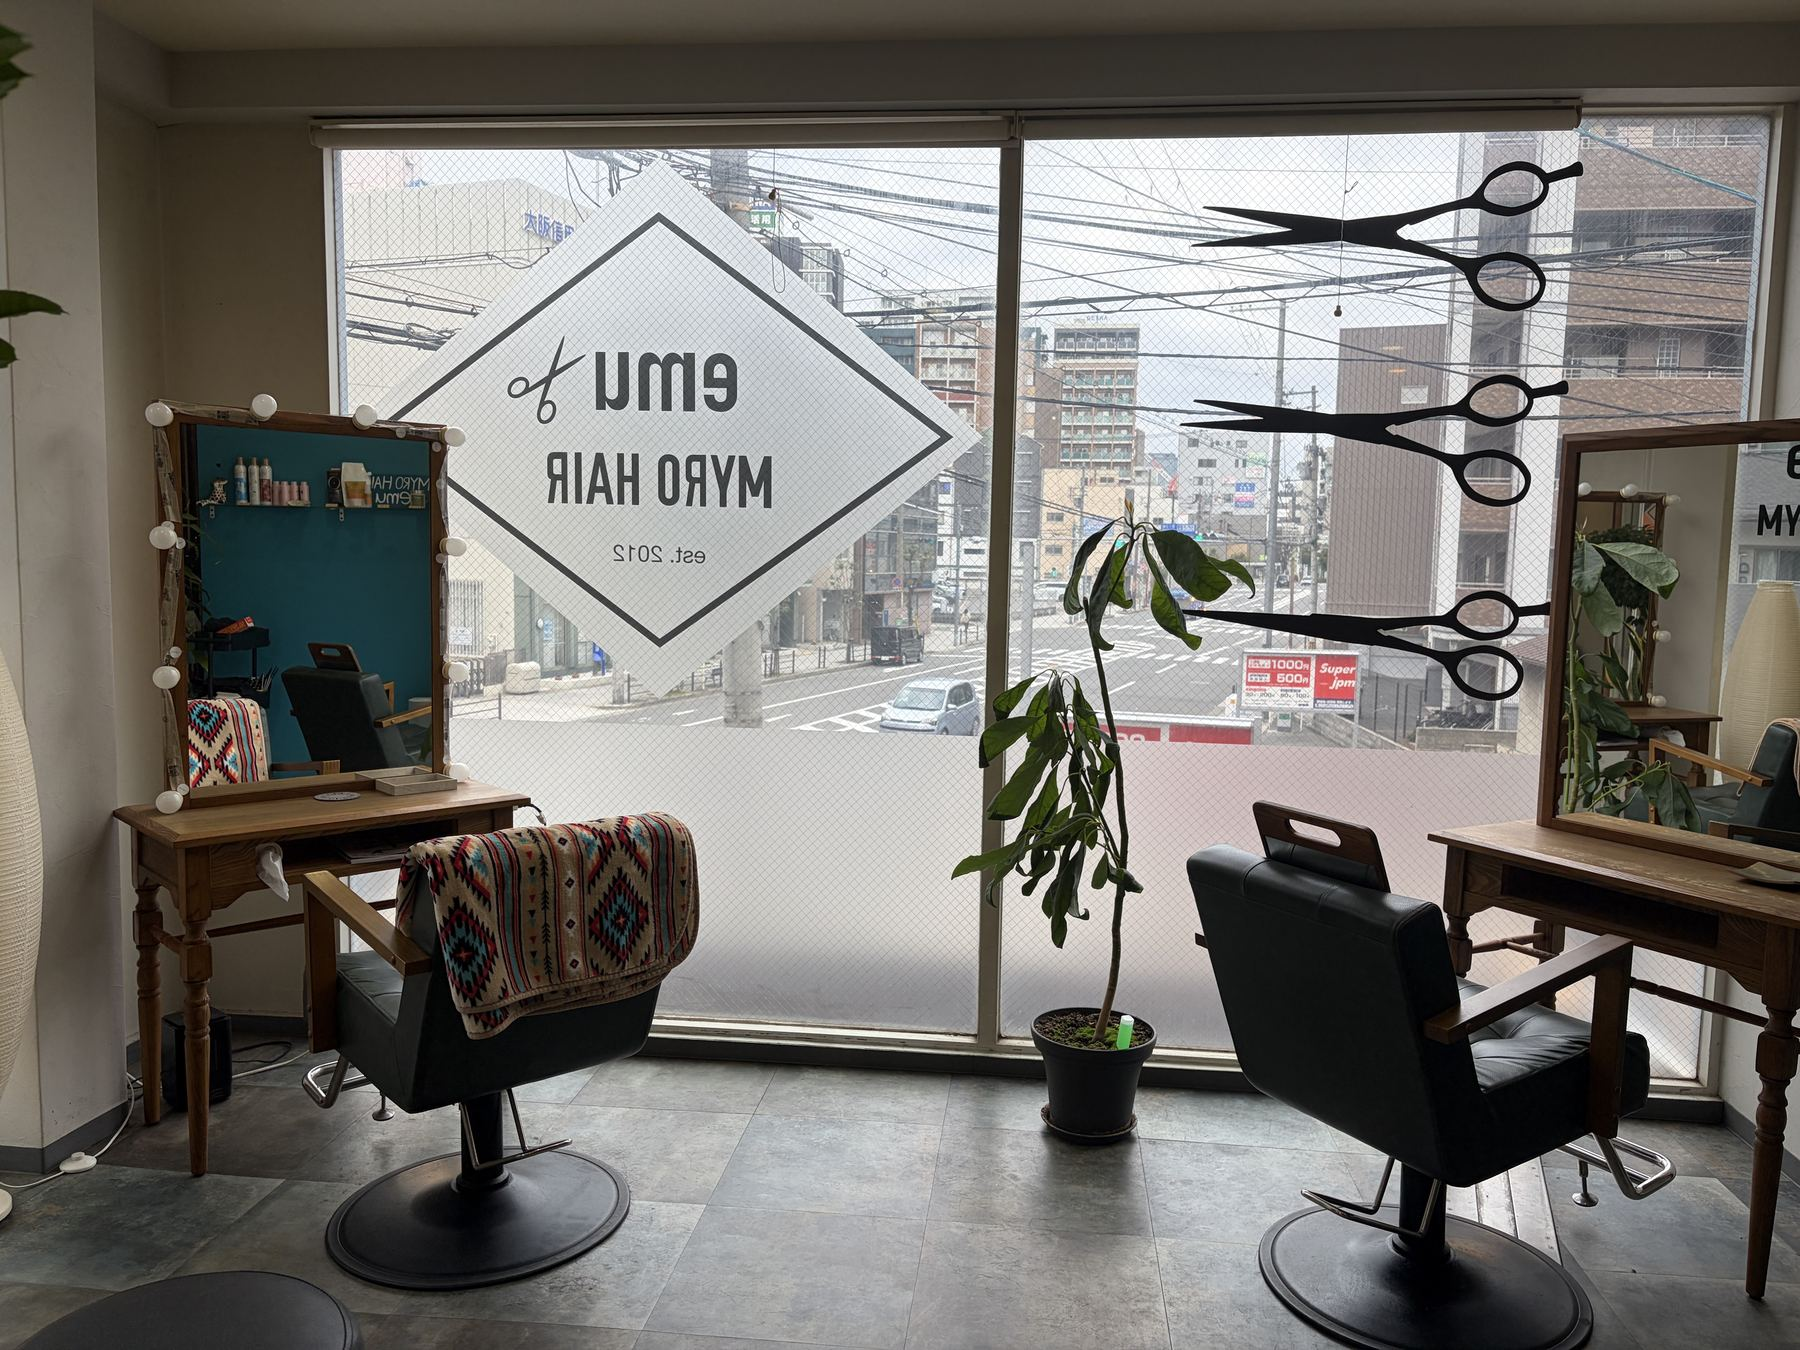
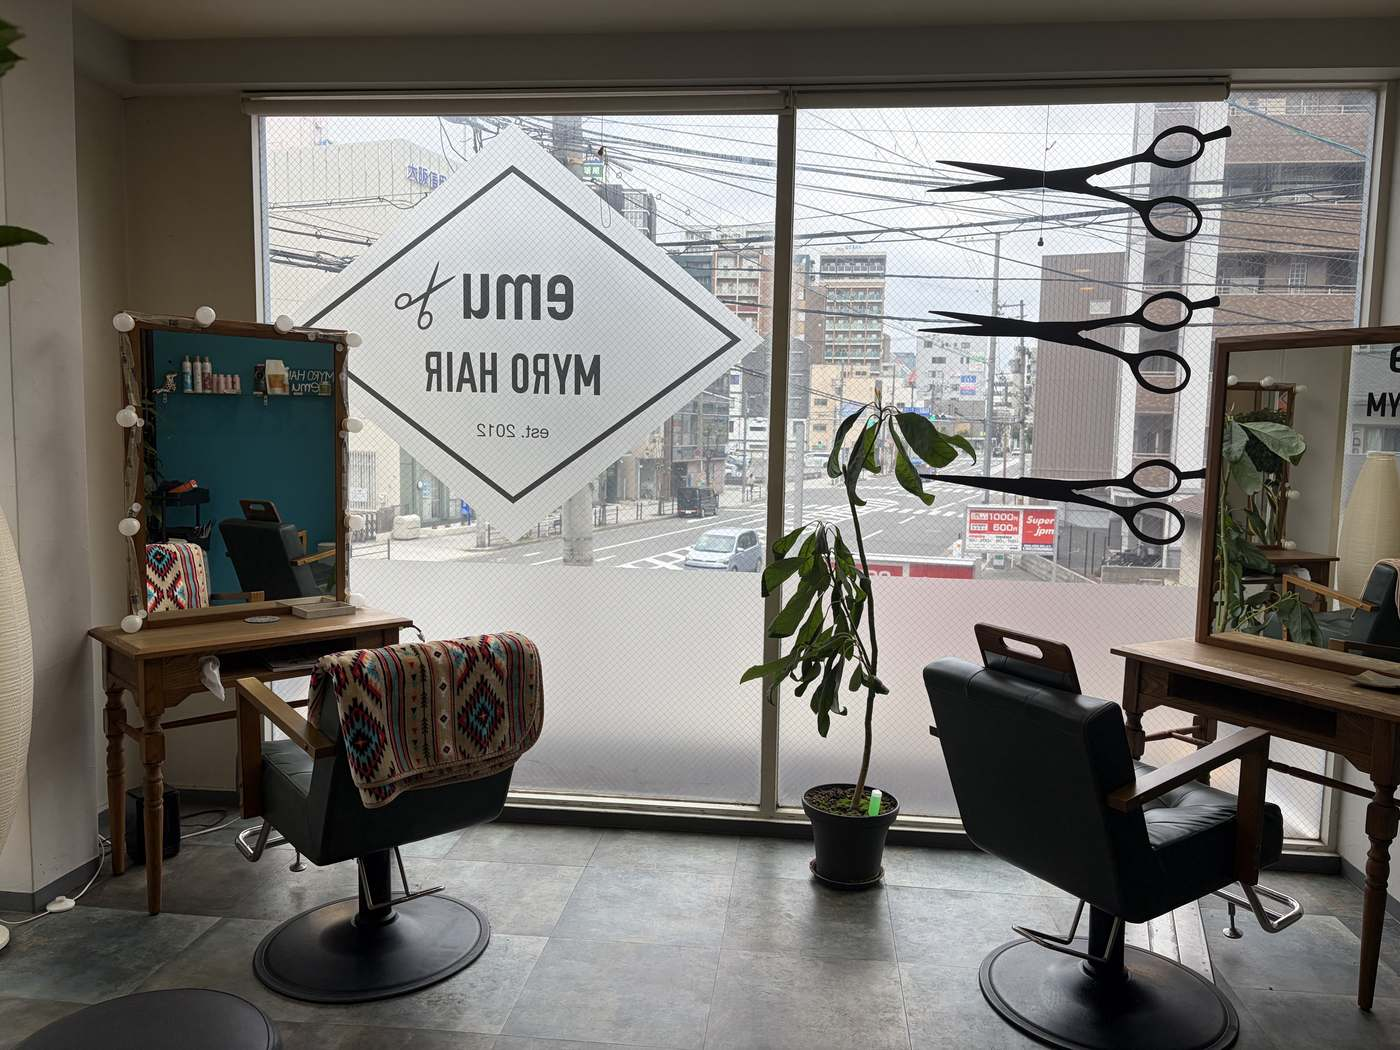
Pre-release review fixes
- Compress hero and interior images (hero 420KB -> 190KB)
- Instagram: only accept instagram.com post links and https images from the feed
- Instagram: heading that reads well before the feed is connected

Claude-Session: https://claude.ai/code/session_01Wy5f7dr1wBByNYRw5sY6Hp

Changed region(s): [[0.0921, 0.5181, 0.1536, 0.579], [0.7064, 0.4876, 0.7371, 0.5181], [0.2457, 0.6095, 0.2764, 0.64]]

diff --git a/index.html b/index.html
@@ -1295,10 +1295,10 @@ footer {
   <div class="container">
     <div class="section-header reveal">
       <span class="en">Instagram</span>
-      <h2>ピックアップ</h2>
+      <h2>サロンの日常</h2>
       <div class="divider"></div>
     </div>
-    <p class="insta-intro reveal">スタイルやサロンの日常を発信しています。</p>
+    <p class="insta-intro reveal">スタイルや店内の様子を発信しています。</p>
     <div class="insta-grid" id="insta-grid" hidden></div>
     <div class="insta-follow reveal">
       <a href="https://www.instagram.com/myro_hair.emu/" target="_blank" rel="noopener" class="instagram-link">
@@ -1474,7 +1474,7 @@ const INSTAGRAM_PICK = 4;
           || (p.mediaType === 'VIDEO' ? p.thumbnailUrl : p.mediaUrl),
         alt: (p.prunedCaption || p.caption || 'Instagram の投稿').slice(0, 80)
       }))
-      .filter(p => p.url && p.img);
+      .filter(p => /^https:\/\/www\.instagram\.com\//.test(p.url || '') && /^https:\/\//.test(p.img || ''));
     for (let i = posts.length - 1; i > 0; i--) {
       const j = Math.floor(Math.random() * (i + 1));
       [posts[i], posts[j]] = [posts[j], posts[i]];
